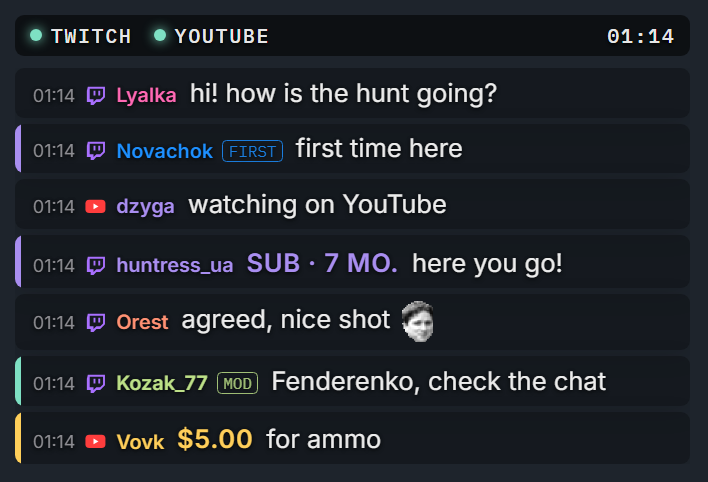
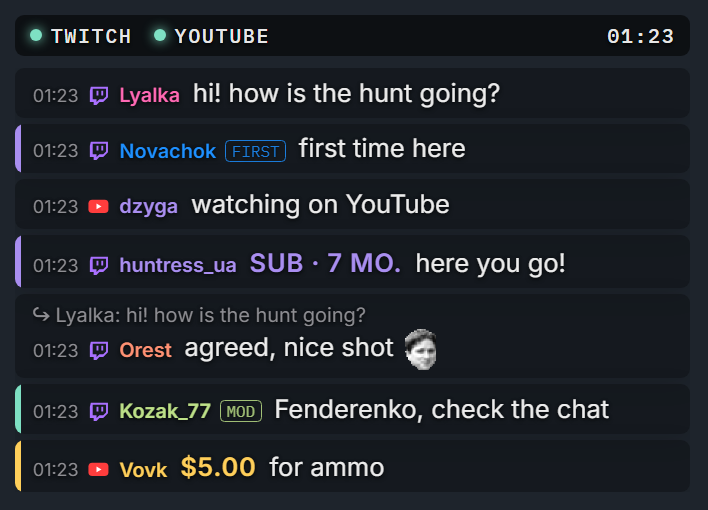
README: lines screenshot with a reply

diff --git a/README.uk.md b/README.uk.md
@@ -96,6 +96,10 @@ Python не потрібен.
 
 ## Підтримати
 
+<p align="center">
+  <a href="https://send.monobank.ua/jar/6VR4c6nxzz"><img src="docs/heart.svg" width="96" alt="Підтримати Foldback Chat"></a>
+</p>
+
 Foldback Chat безкоштовний. Якщо він тобі знадобився, можна підтримати розробку: [банка monobank](https://send.monobank.ua/jar/6VR4c6nxzz).
 
 ## Ліцензія

diff --git a/README.md b/README.md
@@ -95,6 +95,10 @@ build doesn't need Python.
 
 ## Support
 
+<p align="center">
+  <a href="https://send.monobank.ua/jar/6VR4c6nxzz"><img src="docs/heart.svg" width="96" alt="Support Foldback Chat"></a>
+</p>
+
 Foldback Chat is free. If it is useful to you, you can support it: [monobank jar](https://send.monobank.ua/jar/6VR4c6nxzz).
 
 ## License
